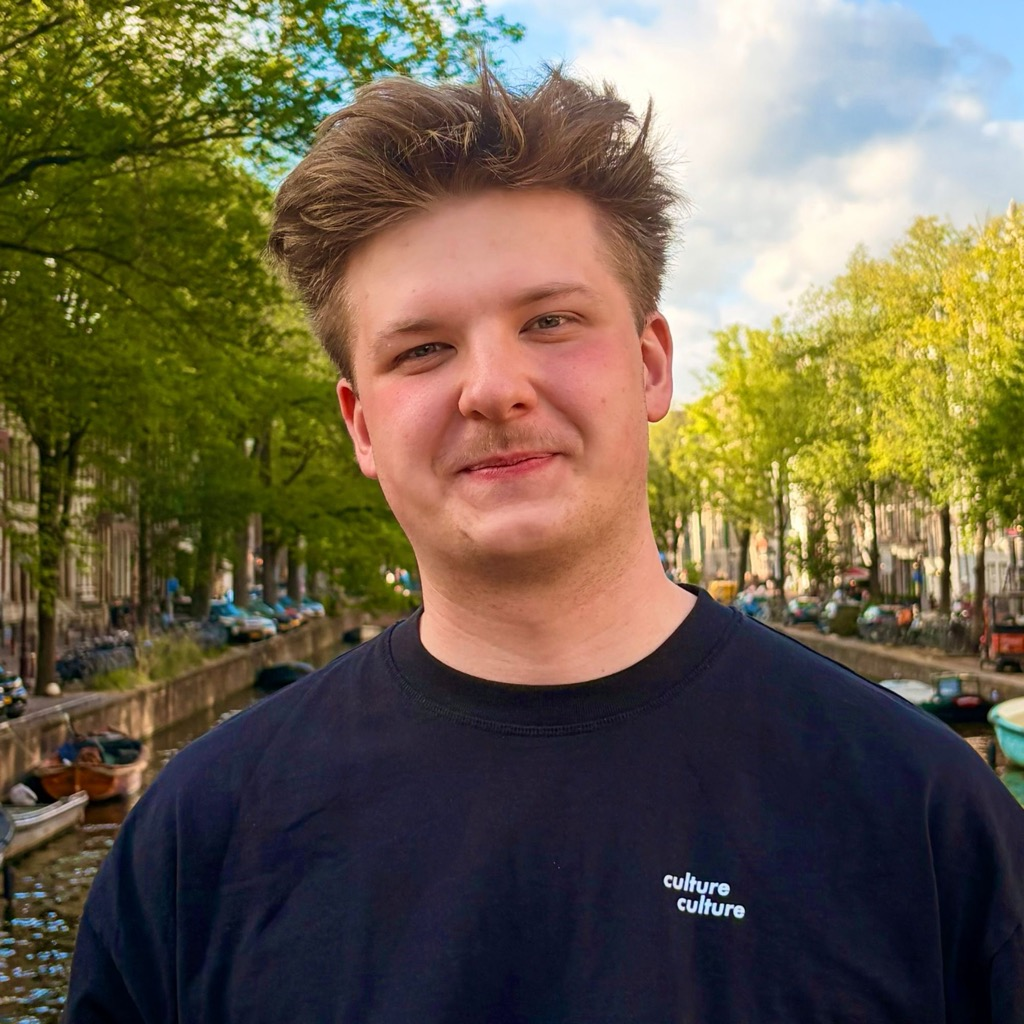
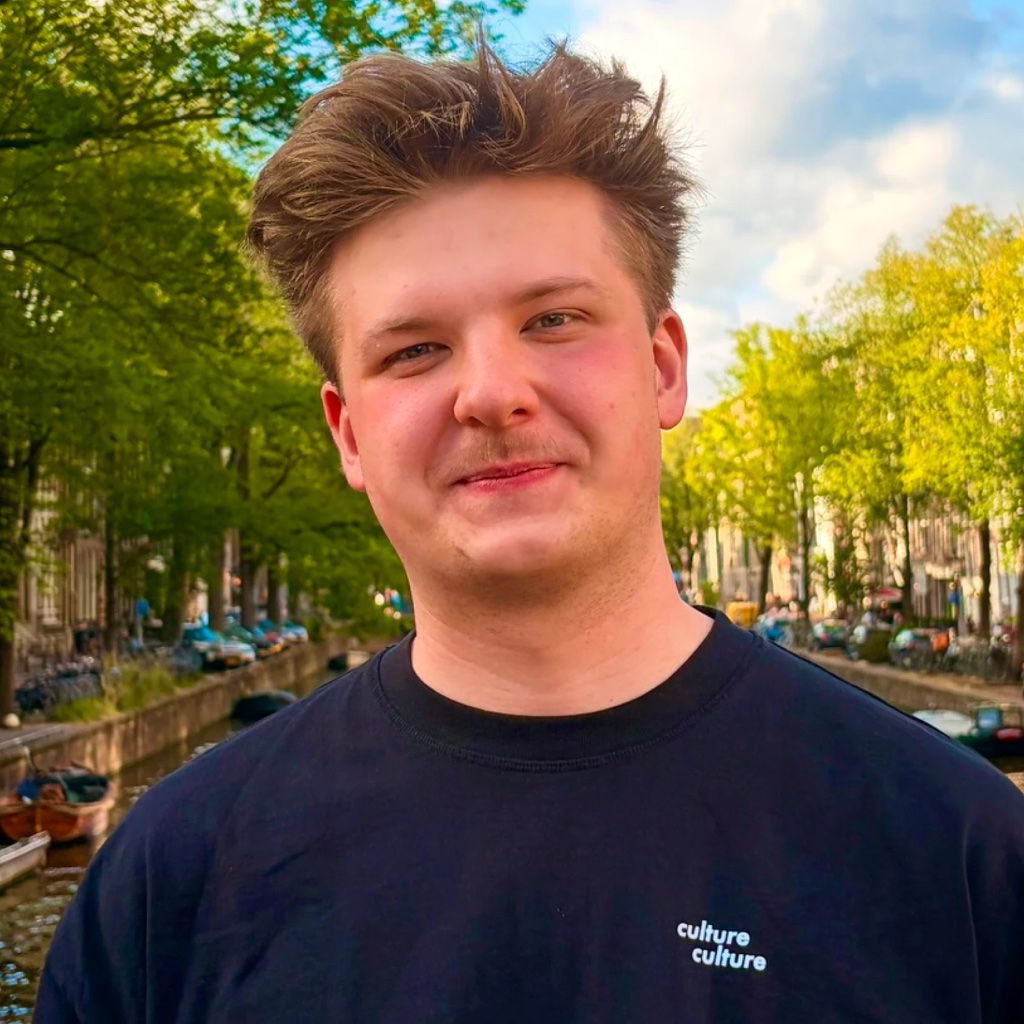
New photos, Figma and Notion buttons
Both photos replaced (dark one now JPEG), icons regenerated from the new
light photo. Figma uses a filled mark; Simple Icons' outline one looked faint.

diff --git a/src/components/brand-icon.tsx b/src/components/brand-icon.tsx
@@ -1,6 +1,7 @@
 import {
   siGithub,
   siInstagram,
+  siNotion,
   siThreads,
   siTiktok,
   siTwitch,
@@ -14,6 +15,11 @@ import type { Platform } from "@/content/site"
 const linkedinPath =
   "M20.447 20.452h-3.554v-5.569c0-1.328-.027-3.037-1.852-3.037-1.853 0-2.136 1.445-2.136 2.939v5.667H9.351V9h3.414v1.561h.046c.477-.9 1.637-1.85 3.37-1.85 3.601 0 4.267 2.37 4.267 5.455v6.286zM5.337 7.433a2.062 2.062 0 1 1 0-4.125 2.062 2.062 0 0 1 0 4.125zm1.782 13.019H3.555V9h3.564v11.452zM22.225 0H1.771C.792 0 0 .774 0 1.729v20.542C0 23.227.792 24 1.771 24h20.451C23.2 24 24 23.227 24 22.271V1.729C24 .774 23.2 0 22.222 0h.003z"
 
+// Simple Icons draws Figma as outlines, which looks faint next to the solid
+// marks; this is the filled mark, its five shapes split by small gaps.
+const figmaPath =
+  "M11.6 0H7.8a3.8 3.8 0 0 0 0 7.6h3.8zM12.4 0h3.8a3.8 3.8 0 0 1 0 7.6h-3.8zM11.6 8.4H7.6a3.6 3.6 0 0 0 0 7.2h4zM19.6 12a3.6 3.6 0 1 1-7.2 0 3.6 3.6 0 1 1 7.2 0zM7.8 16.4h3.8v3.8a3.8 3.8 0 1 1-3.8-3.8z"
+
 const paths: Record<Platform, string> = {
   x: siX.path,
   instagram: siInstagram.path,
@@ -23,6 +29,8 @@ const paths: Record<Platform, string> = {
   youtube: siYoutube.path,
   tiktok: siTiktok.path,
   twitch: siTwitch.path,
+  figma: figmaPath,
+  notion: siNotion.path,
 }
 
 export function BrandIcon({ platform }: { platform: Platform }) {

diff --git a/src/content/site.ts b/src/content/site.ts
@@ -9,6 +9,8 @@ export type Platform =
   | "youtube"
   | "tiktok"
   | "twitch"
+  | "figma"
+  | "notion"
 
 export type Social = {
   platform: Platform
@@ -48,7 +50,7 @@ export const site = {
   // Square photos in public/, one per appearance.
   avatar: {
     light: "/avatar-light.jpg",
-    dark: "/avatar-dark.webp",
+    dark: "/avatar-dark.jpg",
   },
 }
 
@@ -62,4 +64,6 @@ export const socials: Social[] = [
   { platform: "x", label: "X", handle: "@barryscheffka", href: "https://x.com/barryscheffka" },
   { platform: "twitch", label: "Twitch", handle: "barryscheffka", href: "https://www.twitch.tv/barryscheffka" },
   { platform: "threads", label: "Threads", handle: "@barryscheffka", href: "https://www.threads.com/@barryscheffka" },
+  { platform: "figma", label: "Figma Community", handle: "@barryscheffka", href: "https://www.figma.com/@barryscheffka" },
+  { platform: "notion", label: "Notion Marketplace", handle: "@barryscheffka", href: "https://www.notion.com/@barryscheffka" },
 ]
